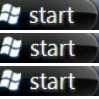
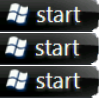
edit

diff --git a/RetroBar/Themes/Windows XP Blue.xaml b/RetroBar/Themes/Windows XP Blue.xaml
@@ -1563,26 +1563,6 @@
         <Setter Property="Height"
                 Value="20" />
     </Style>
-
-    <Style TargetType="TextBlock"
-           x:Key="StartLabel"
-           BasedOn="{StaticResource StartLabel}">
-        <Setter Property="Text"
-                Value="{DynamicResource start_text_xp}" />
-        <Setter Property="FontFamily"
-                Value="{DynamicResource start_text_xp_font_family}" />
-        <Setter Property="FontSize"
-                Value="19" />
-        <Setter Property="FontStyle"
-                Value="Italic" />
-        <Setter Property="FontWeight"
-                Value="Normal" />
-        <Setter Property="Margin"
-                Value="0,0,26,0" />
-        <Setter Property="Effect"
-                Value="{DynamicResource StartLabelShadow}" />
-        <Setter Property="TextOptions.TextRenderingMode"
-                Value="Grayscale" />
     </Style>
 
     <Style TargetType="TextBlock"
